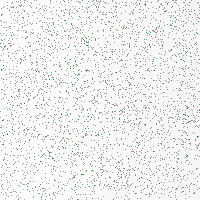
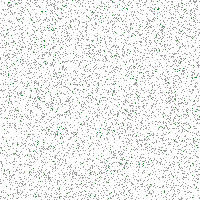
Normal/Invalid chip palette PNG (per-chip Beta noise)
- _make_normal_chip: RGB → palette PNG (mode='P', grade 0/1/2 only).
  Per-chip p_noise ~ Beta(2, 10) for natural long-tail noise distribution.
  200 chips → 200 different noise levels.
- _make_invalid_chip: palette index 11 (orange border) + 9 (text).
- _record + _save_chip_rgb: accept both PIL Image and numpy RGB.
- Regenerate 200 chips in chip_multilabel/Normal/ + classification_chips/Normal/
  (RGB contamination removed, 100% palette PNG).
- Diversity metric: mean grade std 0.1064, range 0.022-0.456.

Changed region(s): [[0.0, 0.0, 1.0, 1.0]]

diff --git a/chip_multilabel/gen_eval_set.py b/chip_multilabel/gen_eval_set.py
@@ -73,84 +73,73 @@ def _min_blend(a: np.ndarray, b: np.ndarray) -> np.ndarray:
     return np.minimum(a, b)
 
 
-def _make_normal_chip(rng: np.random.Generator) -> np.ndarray:
-    """Diversified BASELINE-like Normal chip (260506 patch — 5 noise/variation sources):
+def _make_normal_chip(rng: np.random.Generator) -> Image.Image:
+    """Palette-aligned Normal chip — per-chip Beta(2, 10) noise probability.
 
-    1. Wider grey ratio range 5-30% (was 10-20%)
-    2. Per-pixel grey color noise ±15 (was fixed 155,155,155)
-    3. White subtle pixel noise ±10 (was perfect 255)
-    4. Sprinkle count 0-1.5% with color mix {green, light-green, grey} (was 0-0.5% green only)
-    5. Subtle brightness gradient 30% chance, ±15 along x or y (new)
-
-    Sanity guarantee: _whiteness ≥ 0.70 (Normal definition preserved).
+    260507 redesign (palette PNG, RGB sprinkle 폐기):
+    - per-chip p_noise ~ Beta(2, 10), mean ~0.17, range ~0.02-0.50
+    - per-pixel grade 0 (white) with prob (1-p_noise), else grade 1 (grey) 95% / grade 2 (green dot) 5%
+    - ★ palette grade 0/1/2 만 사용 (RGB 자유 색 영구 금지)
+    - return PIL Image mode='P' with palette (chip 결함 generator 와 동일 logic)
     """
-    # 3. White base with subtle pixel noise (250-255 range — keep mostly white)
-    arr = np.full((CHIP_SIZE, CHIP_SIZE, 3), 255, dtype=np.int16)
-    arr += rng.integers(-5, 1, size=arr.shape, dtype=np.int16)
-    arr = np.clip(arr, 0, 255)
+    import sys
+    from pathlib import Path as _P
+    sys.path.insert(0, str(_P(__file__).resolve().parents[1] / "dist_apply"))
+    import _sample_gen as sg
 
-    flat = arr.reshape(-1, 3)
-    n = flat.shape[0]
+    p_noise = float(rng.beta(2, 10))   # per-chip random noise probability
+    u = rng.random((CHIP_SIZE, CHIP_SIZE))
+    is_noise = u < p_noise
+    u2 = rng.random((CHIP_SIZE, CHIP_SIZE))
+    # noise 안에서 grade 1 (정상 sprinkle) 95%, grade 2 (가끔 dot) 5%
+    noise_grade = np.where(u2 < 0.95, 1, 2).astype(np.uint8)
+    grades = np.where(is_noise, noise_grade, 0).astype(np.uint8)
 
-    # 1. Wider grey ratio (5-22% — keep whiteness ≥ 0.70 sanity)
-    n_grey = int(n * float(rng.uniform(0.05, 0.22)))
-    if n_grey > 0:
-        grey_idx = rng.choice(n, size=n_grey, replace=False)
-        # 2. Per-pixel grey color noise ±15
-        grey_noise = rng.integers(-15, 16, size=(n_grey, 3), dtype=np.int16)
-        flat[grey_idx] = np.clip(np.array(GREY_PALETTE_GRADE_1_RGB, dtype=np.int16) + grey_noise, 0, 255)
-
-    # 4. Sprinkle count 0-1.5% with color mix
-    n_minor = int(n * float(rng.uniform(0.0, 0.015)))
-    if n_minor > 0:
-        minor_idx = rng.choice(n, size=n_minor, replace=False)
-        sprinkle_palette = np.array([
-            [0, 150, 25],     # original green
-            [50, 180, 100],   # light green
-            [130, 130, 130],  # darker grey
-        ], dtype=np.int16)
-        # Each sprinkle picks a random color from palette
-        choices = rng.integers(0, len(sprinkle_palette), size=n_minor)
-        flat[minor_idx] = sprinkle_palette[choices]
-
-    arr = arr.astype(np.uint8)
-
-    # 5. Subtle brightness gradient (20% chance, ±8 amplitude — keep whiteness)
-    if rng.random() < 0.2:
-        amplitude = float(rng.uniform(-8, 8))
-        if rng.random() < 0.5:
-            grad = np.linspace(0, amplitude, CHIP_SIZE).astype(np.int16)  # left→right
-            arr = np.clip(arr.astype(np.int16) + grad[None, :, None], 0, 255).astype(np.uint8)
-        else:
-            grad = np.linspace(0, amplitude, CHIP_SIZE).astype(np.int16)  # top→bottom
-            arr = np.clip(arr.astype(np.int16) + grad[:, None, None], 0, 255).astype(np.uint8)
-
-    return arr
+    img = Image.frombytes('P', (CHIP_SIZE, CHIP_SIZE), grades.tobytes())
+    img.putpalette(sg.PALETTE)
+    return img
 
 
-def _make_invalid_chip(rng: np.random.Generator) -> np.ndarray:
-    """White interior + 2px orange border + 'B<num>' bin text large center."""
-    arr = np.full((CHIP_SIZE, CHIP_SIZE, 3), 255, dtype=np.uint8)
-    arr[:2, :, :] = ORANGE_RGB
-    arr[-2:, :, :] = ORANGE_RGB
-    arr[:, :2, :] = ORANGE_RGB
-    arr[:, -2:, :] = ORANGE_RGB
+def _make_invalid_chip(rng: np.random.Generator) -> Image.Image:
+    """Palette-aligned Invalid chip — grade 0 white interior + 2px orange (palette idx 11) + black text (idx 9).
+
+    260507 redesign (palette PNG):
+    - 2px orange border = palette index 11 (border_inv, RGB 255,153,0)
+    - Text fill = palette index 9 (text, near-black)
+    - White interior = grade 0 (palette index 0)
+    - return PIL Image mode='P'
+    """
+    import sys
+    from pathlib import Path as _P
+    sys.path.insert(0, str(_P(__file__).resolve().parents[1] / "dist_apply"))
+    import _sample_gen as sg
+
+    grades = np.zeros((CHIP_SIZE, CHIP_SIZE), dtype=np.uint8)  # all white (grade 0)
+    BORDER_IDX = sg.KEY_TO_INDEX.get('border_inv', 11)
+    TEXT_IDX = sg.KEY_TO_INDEX.get('text', 9)
+    grades[:2, :] = BORDER_IDX
+    grades[-2:, :] = BORDER_IDX
+    grades[:, :2] = BORDER_IDX
+    grades[:, -2:] = BORDER_IDX
+
+    img = Image.frombytes('P', (CHIP_SIZE, CHIP_SIZE), grades.tobytes())
+    img.putpalette(sg.PALETTE)
+
+    # Centered large text (palette index for fill — PIL converts to mode='P' index)
     bin_num = int(rng.integers(200, 300))
-    # large centered text
     font = None
-    for path in ["C:/Windows/Fonts/arial.ttf", "C:/Windows/Fonts/calibri.ttf",
-                 "/usr/share/fonts/truetype/dejavu/DejaVuSans-Bold.ttf"]:
+    for fp in ["C:/Windows/Fonts/arial.ttf", "C:/Windows/Fonts/calibri.ttf",
+               "/usr/share/fonts/truetype/dejavu/DejaVuSans-Bold.ttf"]:
         try:
             from os.path import exists
-            if exists(path):
-                font = ImageFont.truetype(path, 64)
+            if exists(fp):
+                font = ImageFont.truetype(fp, 64)
                 break
         except Exception:
             pass
     if font is None:
         font = ImageFont.load_default()
-    im = Image.fromarray(arr)
-    draw = ImageDraw.Draw(im)
+    draw = ImageDraw.Draw(img)
     text = f"B{bin_num}"
     try:
         bbox = draw.textbbox((0, 0), text, font=font)
@@ -160,8 +149,8 @@ def _make_invalid_chip(rng: np.random.Generator) -> np.ndarray:
     except Exception:
         tw, th = 120, 50
         tx, ty = CHIP_SIZE // 2 - tw // 2, CHIP_SIZE // 2 - th // 2
-    draw.text((tx, ty), text, fill=(0, 0, 0), font=font)
-    return np.array(im)
+    draw.text((tx, ty), text, fill=int(TEXT_IDX), font=font)
+    return img
 
 
 def _sanity_check(class_key: str, arr: np.ndarray, base1: np.ndarray | None,
@@ -195,9 +184,17 @@ def _sanity_check(class_key: str, arr: np.ndarray, base1: np.ndarray | None,
     return False, "unknown_class_key"
 
 
-def _save_chip_rgb(arr: np.ndarray, path: Path) -> None:
+def _save_chip_rgb(arr, path: Path) -> None:
+    """Accept either numpy.ndarray (RGB) or PIL.Image.Image (any mode).
+
+    260507: palette PNG (mode='P') 통과 위해 PIL Image 도 직접 저장.
+    """
     path.parent.mkdir(parents=True, exist_ok=True)
-    Image.fromarray(arr).save(path)
+    if isinstance(arr, np.ndarray):
+        Image.fromarray(arr).save(path)
+    else:
+        # PIL.Image.Image — palette PNG 그대로 저장
+        arr.save(path)
 
 
 def _build_preview(class_key: str, chips_dir: Path, out_path: Path, n: int = 16) -> None:
@@ -267,10 +264,19 @@ def generate(out_root: Path, classification_chips_root: Path,
         d.mkdir(parents=True, exist_ok=True)
         return d
 
-    def _record(class_key: str, arr: np.ndarray, base1_path: str, base2_path: str,
+    def _record(class_key: str, arr_or_img, base1_path: str, base2_path: str,
                 gen_method: str) -> bool:
+        # Accept either numpy RGB array OR PIL Image (palette PNG).
+        # Save the source object as-is (preserves palette mode), but compute
+        # sanity & defect_pixel_ratio on the RGB conversion.
+        if isinstance(arr_or_img, Image.Image):
+            save_obj = arr_or_img
+            arr_rgb = np.array(arr_or_img.convert("RGB"))
+        else:
+            save_obj = arr_or_img
+            arr_rgb = arr_or_img
         ok, reason = _sanity_check(
-            class_key, arr,
+            class_key, arr_rgb,
             _load_chip_rgb(Path(base1_path)) if base1_path else None,
             _load_chip_rgb(Path(base2_path)) if base2_path else None,
         )
@@ -278,18 +284,18 @@ def generate(out_root: Path, classification_chips_root: Path,
             rej_dir = out_root / "_rejected" / reason
             rej_dir.mkdir(parents=True, exist_ok=True)
             idx = rejected.get(class_key, 0)
-            _save_chip_rgb(arr, rej_dir / f"{class_key}_{idx:04d}.png")
+            _save_chip_rgb(save_obj, rej_dir / f"{class_key}_{idx:04d}.png")
             rejected[class_key] = idx + 1
             return False
         idx = accepted.get(class_key, 0)
         cdir = _alloc(class_key)
         chip_name = f"{class_key}_{idx:04d}.png"
         chip_path = cdir / chip_name
-        _save_chip_rgb(arr, chip_path)
+        _save_chip_rgb(save_obj, chip_path)
         manifest_rows.append({
             "chip_path": str(chip_path),
             "class_key": class_key,
-            "defect_pixel_ratio": _defect_pixel_ratio(arr),
+            "defect_pixel_ratio": _defect_pixel_ratio(arr_rgb),
             "base1_path": base1_path,
             "base2_path": base2_path,
             "gen_method": gen_method,
